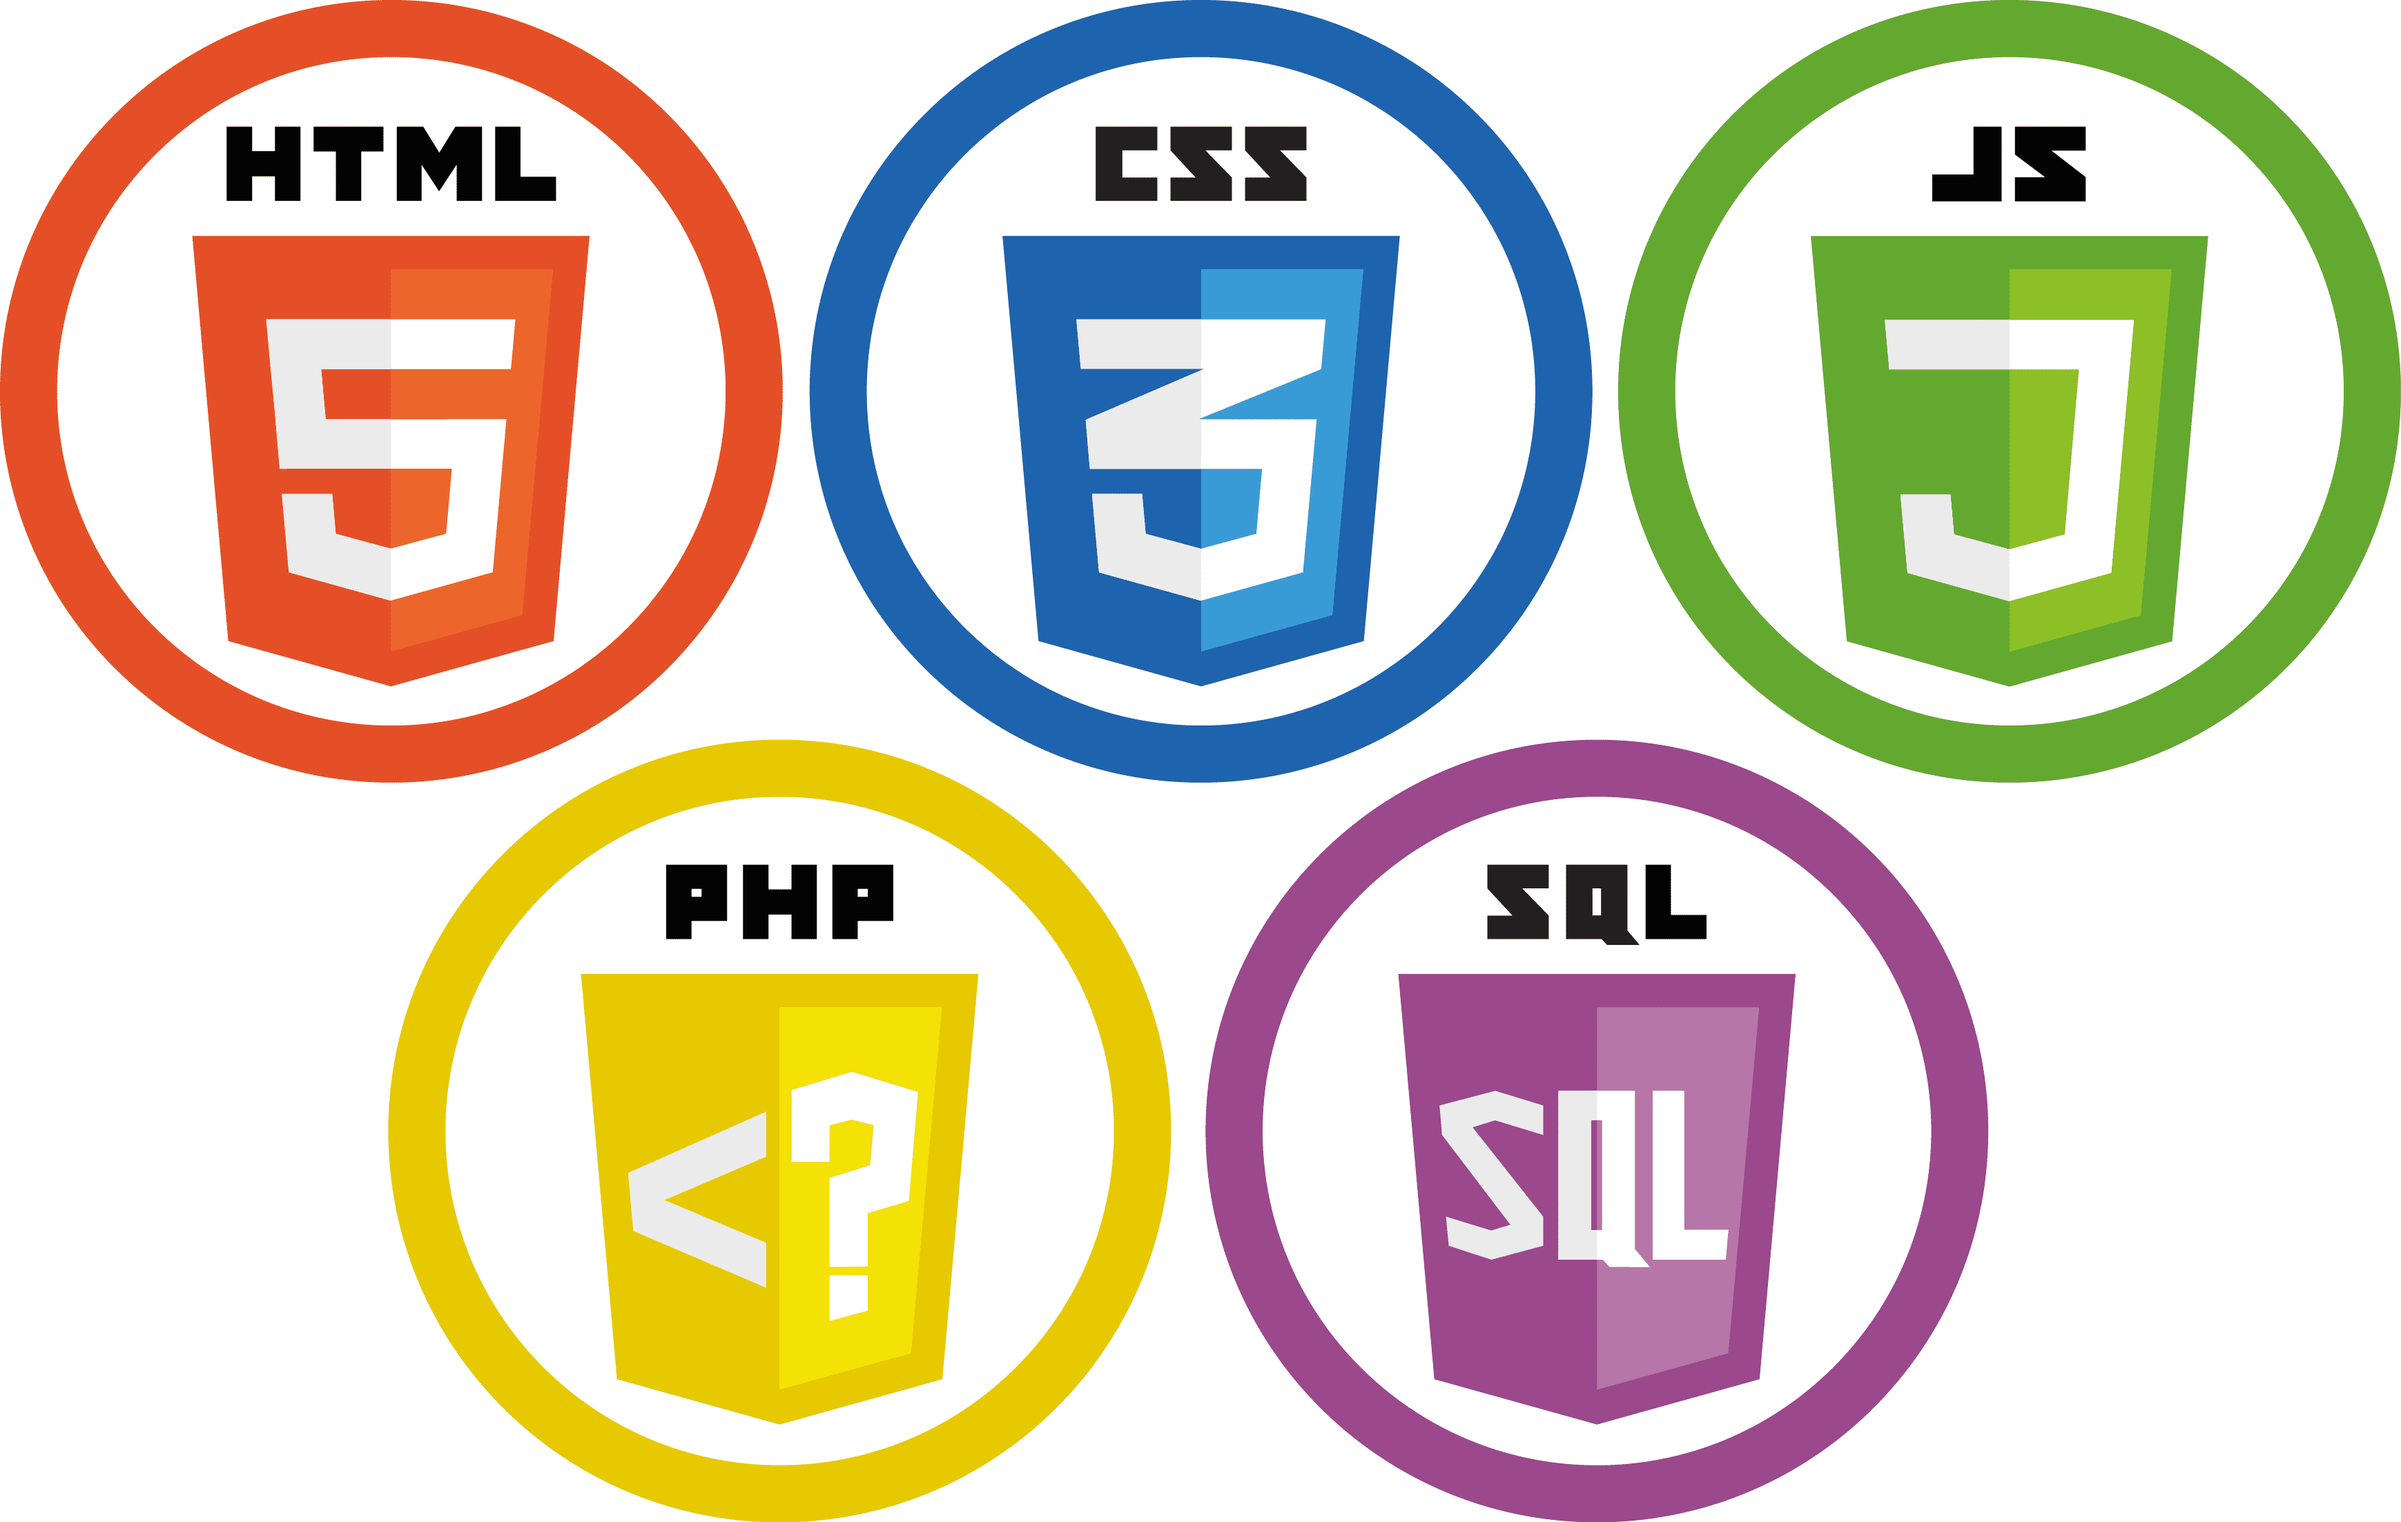
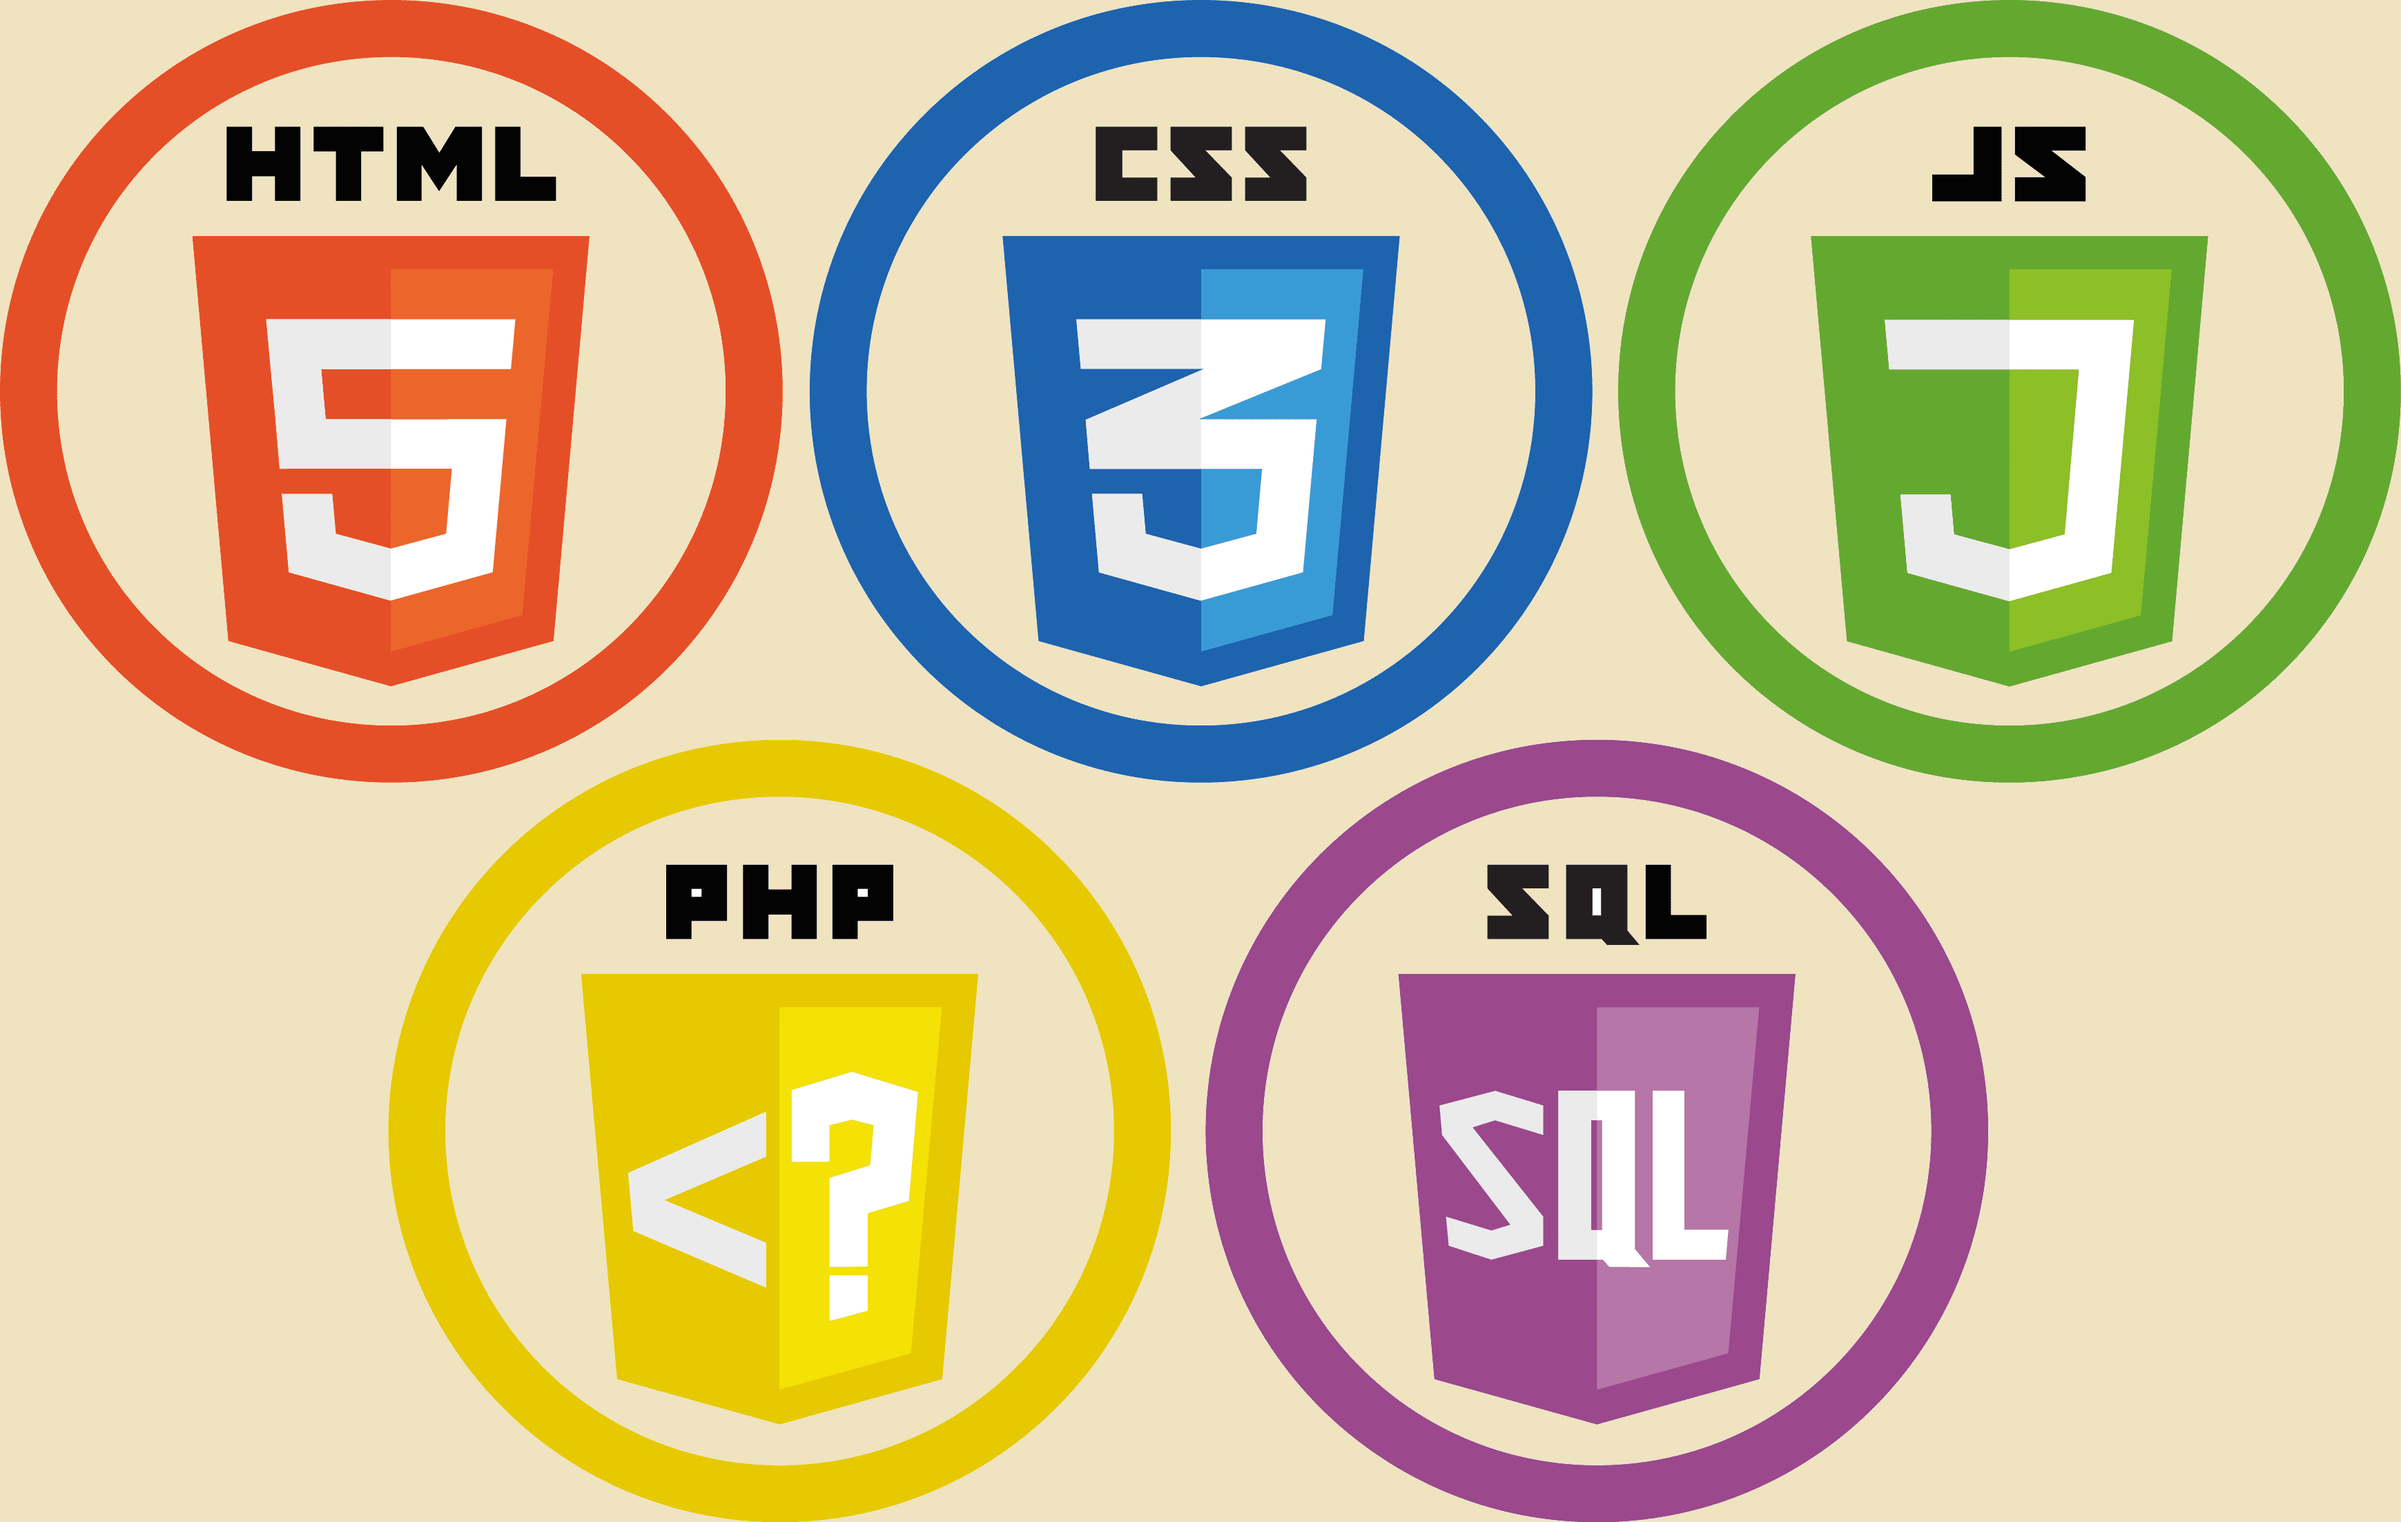
change BG colour add DFMK2

diff --git a/resources/css/style.css b/resources/css/style.css
@@ -4,13 +4,14 @@ body {
 	margin: auto;
 	font-family: 'NowSemibold';
 	/*font-family: 'Space Mono', monospace;*/
-	background-color: white;
+	background-color: #fde4c5;
 }
 
 main {
 	background-color: white;
 	font-family: 'NowSemibold';
 	font-size: 1.15em;
+	background-color: #fde4c5;
 }
 
 h2 {
@@ -31,6 +32,7 @@ header a {
 
 header h1 {
 	padding-left: 0.5em;
+	
 }
 
 #bigNav ul {
@@ -59,6 +61,8 @@ header h1 {
 	background-color: #3e3734;
 	display: flex;
 	justify-content: flex-end;
+	border-radius: 15px;
+	margin: 0 10px;
 }
 
 #topDiv {
@@ -69,18 +73,22 @@ header h1 {
 	align-items: center;
 	background-color: #3e3734;
 	height: 75px;
+	border-radius: 20px;
+	margin: 10px 10px 5px 10px;
 }
 
 #pcLogo {
 	height: 50px;
 	margin-left: 4%;
 	margin-top: 1%;
+	display: inline-block;
 }
 
 #MenuIcon {
 	height: 50px;
 	cursor: pointer;
 	display: none;
+	margin-right: 5px;
 }
 
 #mobileNavContainer {
@@ -106,7 +114,7 @@ header h1 {
 
 #mobileNav a {
 	color: white;
-	font-size: 1.1em;
+	font-size: 1.2em;
 	text-decoration: none;
 }
 
@@ -122,7 +130,7 @@ header h1 {
 	width: 375px;
 	height: auto;
 	margin: 1em;
-	border-radius: 15px;
+	border-radius: 20px;
 }
 
 .aboutMeContainer {
@@ -155,19 +163,20 @@ header h1 {
 	margin: 0.7em;
 }
 
-#dogFightDetails {
+#dogFightDetails, #dogFightMK2Details {
 	display: none;
-	font-family: helvetica;
 	font-size: 1.1em;
 }
 
-#dogFightDetails img {
-	height: 450px;
+#dogFightImage, #dogFightMK2Image  {
+	height: 350px;
 	border: solid 1px #3e3734;
 }
 
-#dogFightName {
+#projects li {
 	cursor: pointer;
+	font-family: NowBold;
+	font-size: 1.3em;
 }
 
 #skills h2 {
@@ -184,7 +193,10 @@ footer {
 	text-align: center;
 	background-color: #3e3734;
 	color: white;
-	font-size: 1.1em;
+	font-size: 1.3em;
+	height: 30px;
+	border-radius: 20px;
+	margin: 10px;
 }
 
 #contact {

diff --git a/index.html b/index.html
@@ -10,7 +10,7 @@
 <body>
 	<header>
 		<div id="topDiv">
-			<a href="index.html"><img src="./resources/images/PCLogo.png" id="pcLogo"></a>
+			<a href="index.html"><img src="./resources/images/PCLightLogo.png" id="pcLogo"></a>
 			<nav id="bigNav">
 				<ul>
 					<li><a href="#about">About Me</a></li>
@@ -54,10 +54,14 @@
 				<li id="dogFightName">Dog Fight!</li>
 					<div id="dogFightDetails">
 						<p>Dog Fight! is the most realistic depiction of dog fighting, ever seen in a video game. Developed using Javascript</p>
-						<a href="https://tristanmalloch.github.io/Dog-FIght/" target="_blank"><img src="./resources/images/DF_Screen.jpg"></a>
+						<a href="https://tristanmalloch.github.io/Dog-Fight/" target="_blank"><img src="./resources/images/DF_Screen.jpg" id="dogFightImage"></a>
 					</div>
-				<li>Project 2</li>
-				<li>Project 3</li>
+				<li id="dogFightMK2Name">Dog Fight! MK2</li>
+				<div id="dogFightMK2Details">
+						<p>Like Dog Fight! MK1, but with 5% more tactic. The true thinking persons's dog fighting simulation. Developed using Javascript</p>
+						<a href="https://tristanmalloch.github.io/Dog-Fight/" target="_blank"><img src="./resources/images/DFMK2_Screen.jpg" id="dogFightMK2Image"></a>
+					</div>
+				<li>Project 3 (Coming soon...)</li>
 			</ul>
 		</section>
 		<div id="skills">

diff --git a/resources/script/script.js b/resources/script/script.js
@@ -1,5 +1,7 @@
 let dogFightName = document.getElementById('dogFightName');
+let dogFightMK2Name = document.getElementById('dogFightMK2Name');
 let dogFightDetails = document.getElementById('dogFightDetails');
+let dogFightMK2Details = document.getElementById('dogFightMK2Details');
 let mobileNav = document.getElementById('smallNav');
 let MenuIcon = document.getElementById('MenuIcon');
 let skillsImage = document.getElementById('skillsImage');
@@ -23,6 +25,16 @@ let showDogFight = function() {
 };
 
 dogFightName.onclick = showDogFight;
+
+let showDogFightMK2 = function() {
+	if (dogFightMK2Details.style.display == "block") {
+		dogFightMK2Details.style.display = "none";
+	} else {
+		dogFightMK2Details.style.display = "block";
+	}
+};
+
+dogFightMK2Name.onclick = showDogFightMK2;
 
 let skillsSize = function() {
 	if (skillsImage.style.height == '250px') {

diff --git a/contact.html b/contact.html
@@ -10,7 +10,7 @@
 <body>
 	<header>
 		<div id="topDiv">
-			<a href="index.html"><img src="./resources/images/PCLogo.png" id="pcLogo"></a>
+			<a href="index.html"><img src="./resources/images/PCLightLogo.png" id="pcLogo"></a>
 			<nav id="bigNav">
 				<ul>
 					<li><a href="index.html#about">About Me</a></li>

diff --git a/submit.html b/submit.html
@@ -10,7 +10,7 @@
 <body>
 	<header>
 		<div id="topDiv">
-			<a href="index.html"><img src="./resources/images/PCLogo.png" id="pcLogo"></a>
+			<a href="index.html"><img src="./resources/images/PCLightLogo.png" id="pcLogo"></a>
 			<nav id="bigNav">
 				<ul>
 					<li><a href="index.html#about">About Me</a></li>
